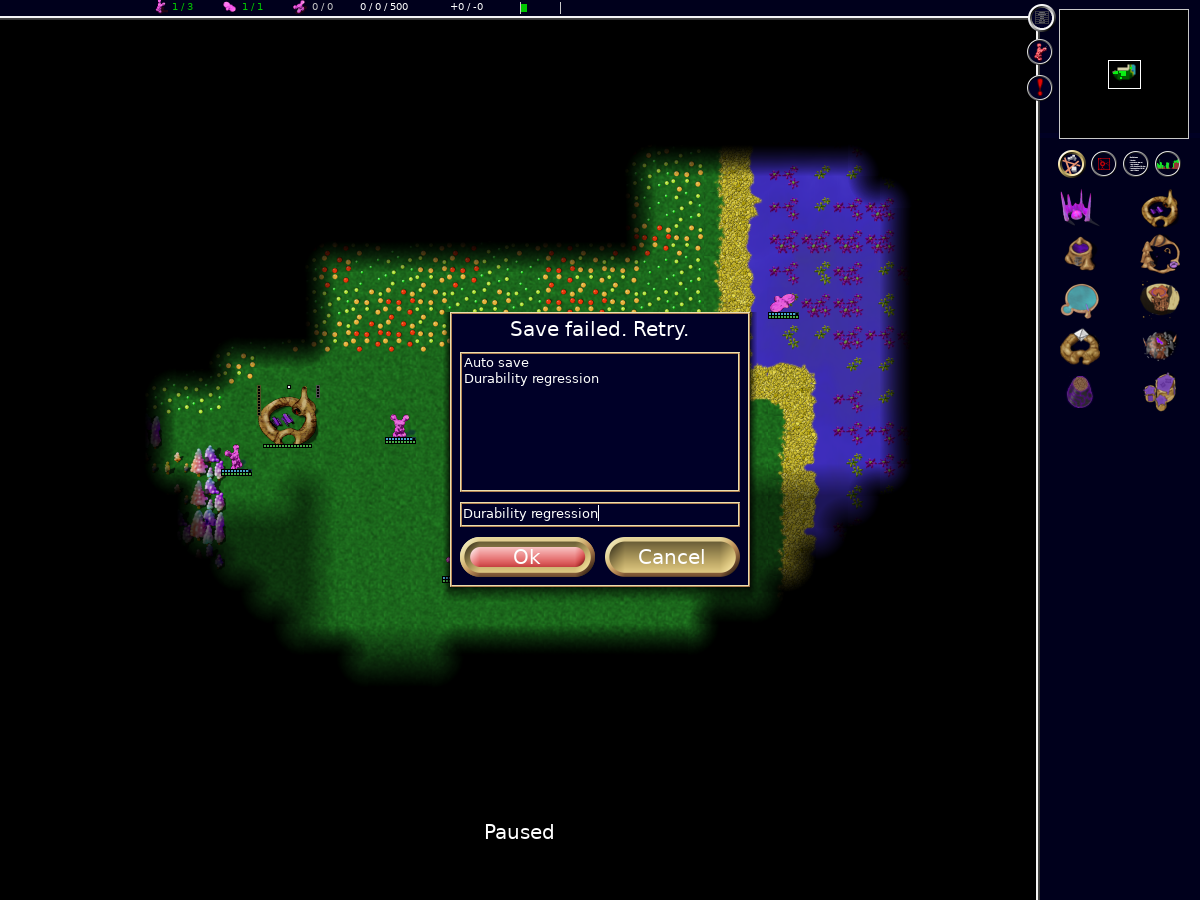
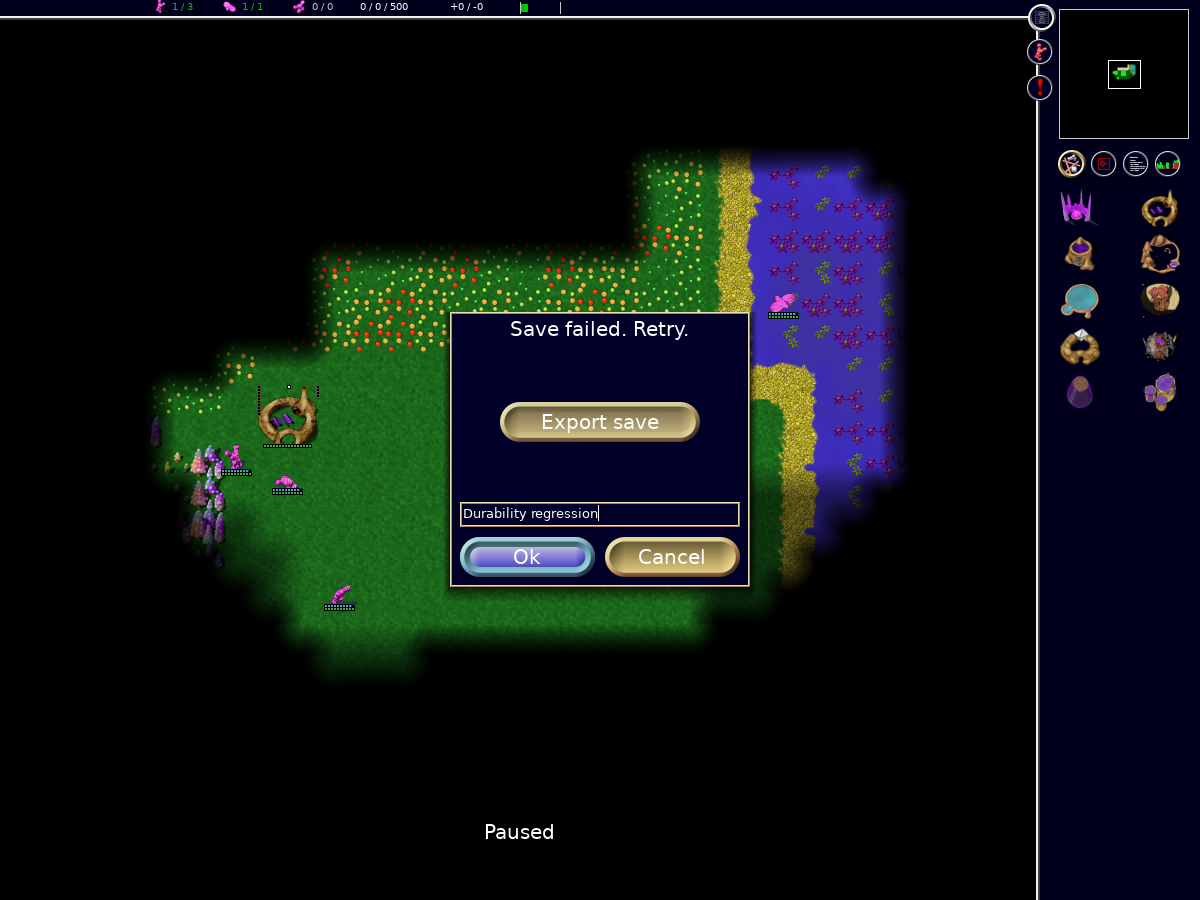
Offer save-file export after browser persistence failures

diff --git a/browser/tests/storage.spec.js b/browser/tests/storage.spec.js
@@ -1,4 +1,6 @@
 const {test,expect}=require('@playwright/test');
+const fs=require('node:fs/promises');
+const {createHash}=require('node:crypto');
 const state=page=>page.evaluate(()=>glob2Diagnostics.snapshot());
 const screen=(page,name)=>expect.poll(async ()=>(await state(page)).screen).toContain(name);
 const click=(page,x,y)=>page.locator('#canvas').click({position:{x,y},delay:80});
@@ -48,6 +50,12 @@ for (const fault of ['abort','quota']) test(`${fault} failure retains the previo
   await save(page);
   await expect.poll(async ()=>(await state(page)).persistence).toBe('failed');
   const changed=await digest(); expect(changed).not.toEqual(original);
+  const downloadEvent=page.waitForEvent('download');
+  await click(page,600,422);
+  const download=await downloadEvent;
+  expect(download.suggestedFilename()).toBe('Durability_regression.game');
+  const exported=await fs.readFile(await download.path());
+  expect({size:exported.length,sha256:createHash('sha256').update(exported).digest('hex')}).toEqual(changed);
   await page.screenshot({path:info.outputPath('save-persistence-failure.png')});
   const restored=await context.newPage();
   await restored.goto('/'); await screen(restored,'MainMenuScreen');

diff --git a/src/gui/GameGUILoadSave.cpp b/src/gui/GameGUILoadSave.cpp
@@ -8,6 +8,8 @@
 #include <GUIText.h>
 #include <GUITextInput.h>
 #include <Toolkit.h>
+#include <FileManager.h>
+#include <BinaryStream.h>
 #include <StringTable.h>
 
 class FuncFileList: public FileList
@@ -85,6 +87,10 @@ LoadSaveScreen::LoadSaveScreen(const char *directory, const char *extension, boo
 	addWidget(new TextButton(10, 225, 135, 40, ALIGN_LEFT, ALIGN_LEFT, "menu", Toolkit::getStringTable()->getString("[ok]"), OK, 13));
 	addWidget(new TextButton(155, 225, 135, 40, ALIGN_LEFT, ALIGN_LEFT, "menu", Toolkit::getStringTable()->getString("[Cancel]"), CANCEL, 27));
 
+    exportButton = new TextButton(50, 90, 200, 40, ALIGN_LEFT, ALIGN_LEFT, "menu",
+        Toolkit::getStringTable()->getString("[export save]"), EXPORT);
+    exportButton->visible = false;
+    addWidget(exportButton);
 	caption = new Text(0, 5, ALIGN_FILL, ALIGN_LEFT, "menu", title);
     addWidget(caption);
 
@@ -102,6 +108,7 @@ void LoadSaveScreen::onAction(Widget *source, Action action, int par1, int par2)
 	if (persistence) return;
 	if ((action==BUTTON_RELEASED) || (action==BUTTON_SHORTCUT))
 	{
+		if (par1 == EXPORT) { exportSave(); return; }
 		if (par1 == OK)
 		{
 			if (fileName.size())
@@ -148,12 +155,16 @@ void LoadSaveScreen::showSaveFailure()
 {
     endValue = -1;
     caption->setText(Toolkit::getStringTable()->getString("[save failed retry]"));
+    exportButton->visible = !exportPath.empty() && GAGCore::ApplicationHost::canExportFiles();
+    if (exportButton->visible) fileList->visible = false;
 }
 
 void LoadSaveScreen::beginPersistence(std::unique_ptr<GAGCore::ApplicationHost::Persistence> operation)
 {
     endValue = -1;
     caption->setText(Toolkit::getStringTable()->getString("[saving to storage]"));
+    exportPath = fileName;
+    exportButton->visible = false;
     persistence = std::move(operation);
 }
 bool LoadSaveScreen::pollPersistence()
@@ -167,4 +178,21 @@ bool LoadSaveScreen::pollPersistence()
         return false;
     }
     return true;
+}
+
+void LoadSaveScreen::exportSave()
+{
+    try {
+        BinaryInputStream stream(Toolkit::getFileManager()->openInputStreamBackend(exportPath));
+        if (!stream.isValid()) throw std::runtime_error("Save unavailable");
+        stream.seekFromEnd(0);
+        const size_t size = stream.getPosition();
+        if (!size || size > 64u * 1024u * 1024u) throw std::runtime_error("Save exceeds export limit");
+        stream.seekFromStart(0);
+        std::vector<unsigned char> bytes(size);
+        stream.read(bytes.data(), size, "export");
+        const auto slash = exportPath.find_last_of("/\\");
+        const auto name = exportPath.substr(slash == std::string::npos ? 0 : slash + 1);
+        if (!GAGCore::ApplicationHost::exportFile(name, bytes)) showSaveFailure();
+    } catch (const std::exception&) { showSaveFailure(); }
 }

diff --git a/browser/ApplicationHost.cpp b/browser/ApplicationHost.cpp
@@ -57,6 +57,22 @@ bool takeViewportSize(int& width, int& height)
         return 1;
     }, &width, &height);
 }
+bool canExportFiles() { return true; }
+bool exportFile(const std::string& name, const std::vector<unsigned char>& bytes)
+{
+    return EM_ASM_INT({
+        try {
+            const blob = new Blob([HEAPU8.slice($1, $1 + $2)], {type:'application/octet-stream'});
+            const url = URL.createObjectURL(blob);
+            const anchor = document.createElement('a');
+            anchor.href = url;
+            anchor.download = UTF8ToString($0).replace(/[\\/]/g, '_');
+            anchor.click();
+            setTimeout(() => URL.revokeObjectURL(url), 60000);
+            return 1;
+        } catch (_) { return 0; }
+    }, name.c_str(), bytes.data(), bytes.size());
+}
 namespace {
 class BrowserPersistence : public Persistence {
     int id;

diff --git a/libgag/include/ApplicationHost.h b/libgag/include/ApplicationHost.h
@@ -1,6 +1,7 @@
 // SPDX-License-Identifier: GPL-3.0-or-later
 #pragma once
 #include <cstdint>
+#include <string>
 #include <SDL.h>
 #include <functional>
 #include <memory>
@@ -27,6 +28,9 @@ void wait(std::uint32_t milliseconds);
 bool takeViewportSize(int& width, int& height);
 // Visibility edges are retained even when no frame ran while hidden.
 bool takeVisibilityChange(bool& hidden);
+
+bool canExportFiles();
+bool exportFile(const std::string& name, const std::vector<unsigned char>& bytes);
 
 // Persistence completion is owned by the caller; releasing it is safe while pending.
 enum class PersistenceState { Pending, Succeeded, Failed };

diff --git a/src/gui/GameGUILoadSave.h b/src/gui/GameGUILoadSave.h
@@ -14,6 +14,7 @@ namespace GAGGUI
 	class List;
 	class TextInput;
     class Text;
+    class TextButton;
 }
 
 class LoadSaveScreen:public OverlayScreen
@@ -22,12 +23,16 @@ public:
 	enum
 	{
 		OK = 0,
-		CANCEL = 1
+		CANCEL = 1,
+        EXPORT = 2
 	};
 	
 private:
 	List *fileList;
     Text *caption;
+    TextButton *exportButton;
+    std::string exportPath;
+    void exportSave();
     std::unique_ptr<GAGCore::ApplicationHost::Persistence> persistence;
 	TextInput *fileNameEntry;
 	bool isLoad;

diff --git a/libgag/src/ApplicationHost.cpp b/libgag/src/ApplicationHost.cpp
@@ -23,6 +23,8 @@ void wait(std::uint32_t milliseconds)
 }
 bool takeVisibilityChange(bool&) { return false; }
 bool takeViewportSize(int&, int&) { return false; }
+bool canExportFiles() { return false; }
+bool exportFile(const std::string&, const std::vector<unsigned char>&) { return false; }
 namespace {
 class NativePersistence : public Persistence {
     PersistenceState state() const override { return PersistenceState::Succeeded; }

diff --git a/docs/browser/status.md b/docs/browser/status.md
@@ -113,6 +113,13 @@ infrastructure from the supported-release acceptance criteria.
   `screenshots/save-persistence-failure.png`. These are injected faults, not a
   full browser-profile capacity or interrupted-upgrade qualification.
 
+- Failed browser manual saves offer an in-game download of the retained file.
+  Export reads through the shared filesystem interface, bounds allocation to
+  64 MiB, and passes bytes to the browser host. All six abort/quota scenarios
+  verify the downloaded filename and byte digest, preservation of the old
+  durable save, and successful retry. General import/export for other local
+  data types and explicit messaging for oversized exports remain unfinished.
+
 ## Local validation
 
 After isolating browser work and rebasing onto upstream `master` (`88934ecf`),
